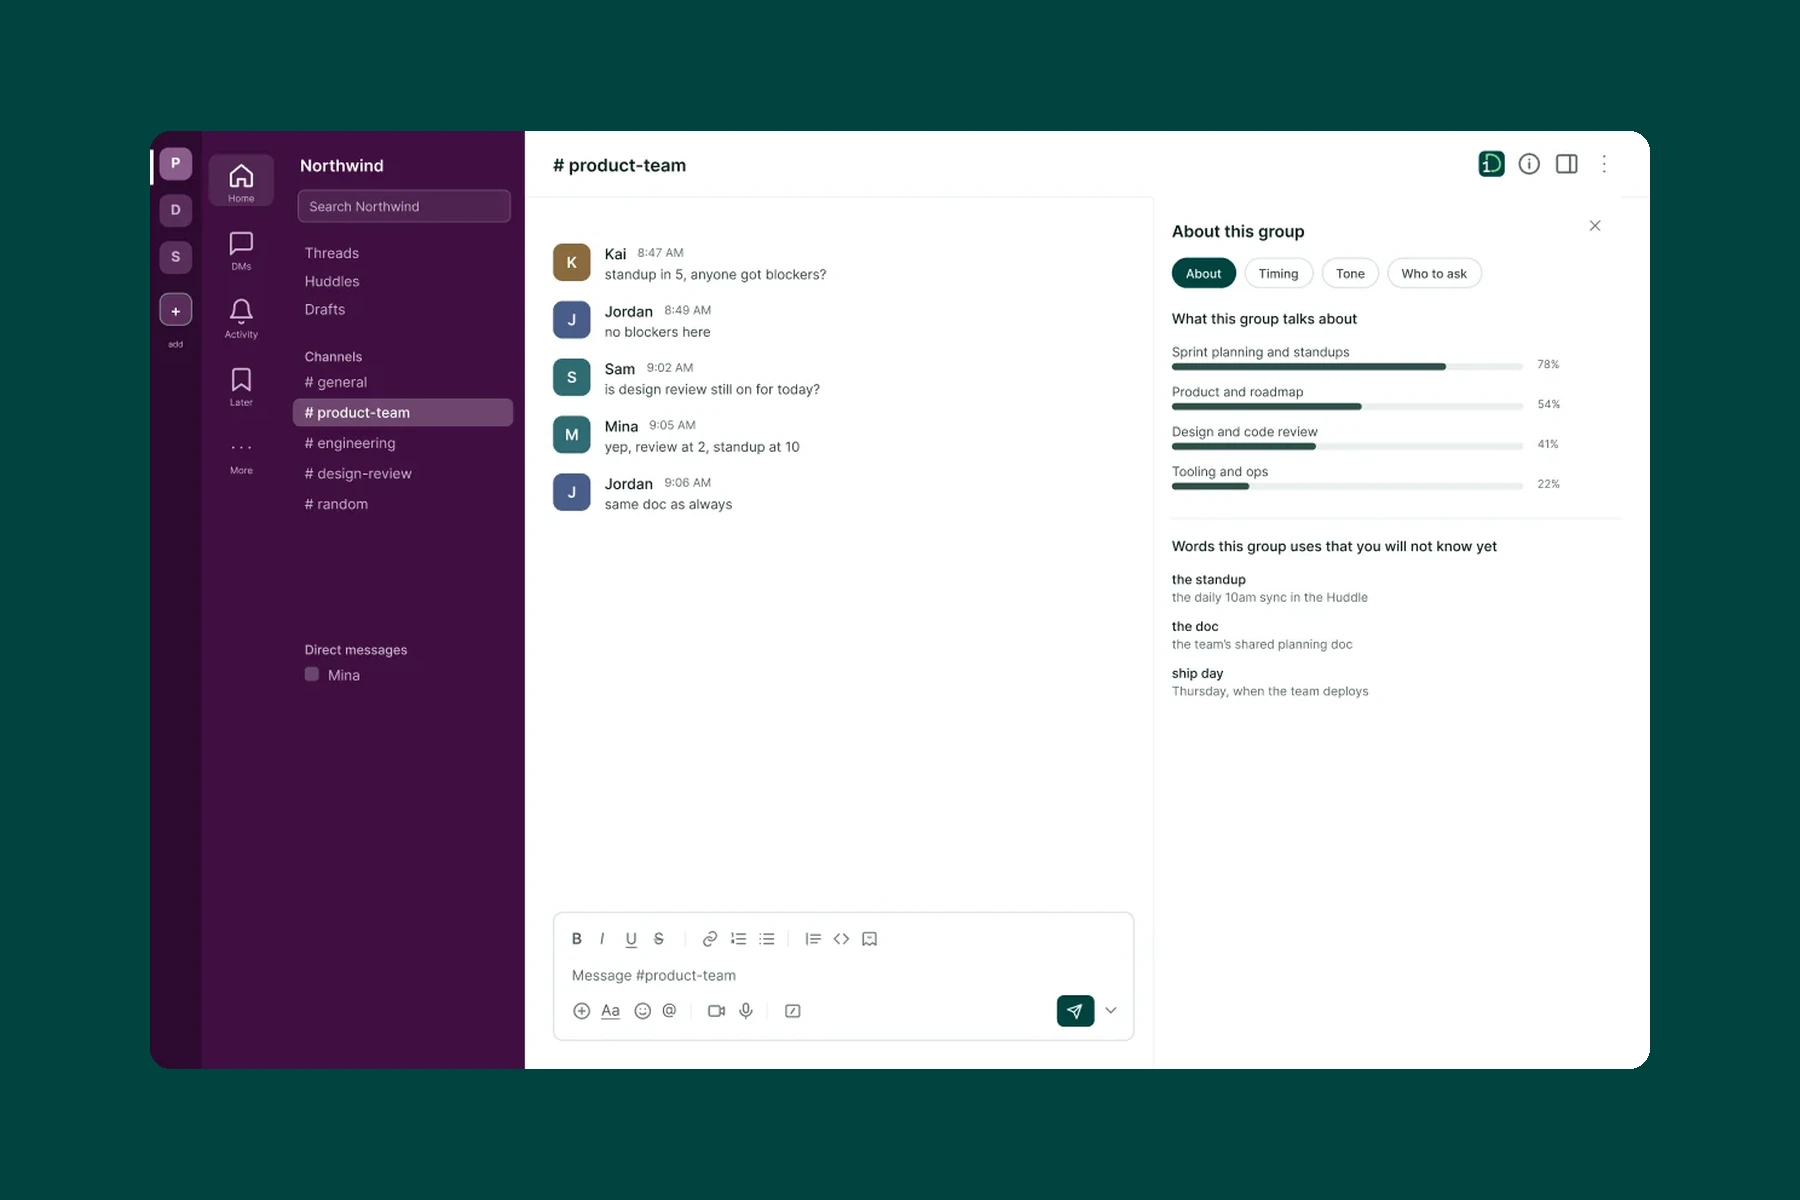
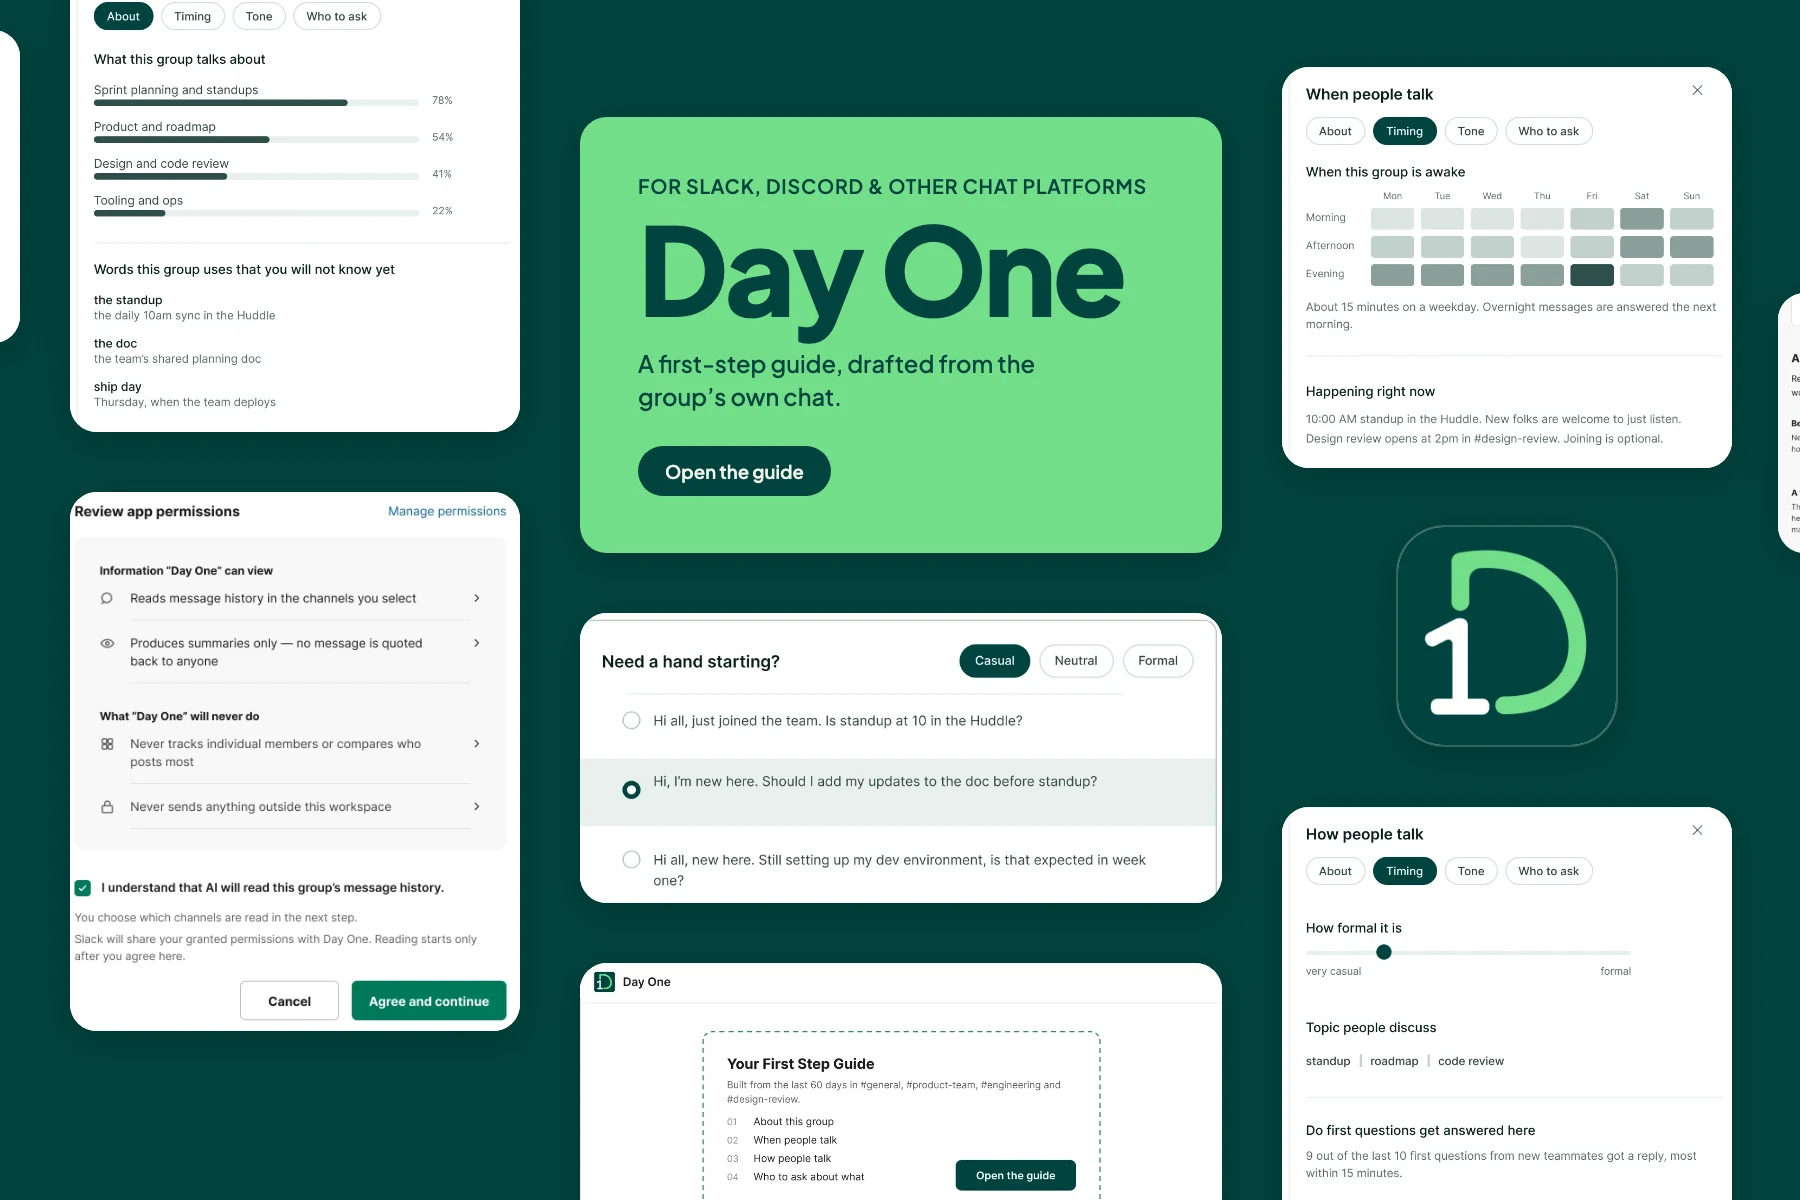
New Day One thumbnail; host flow first with rounded frames

diff --git a/dayone.html b/dayone.html
@@ -10,7 +10,7 @@
 <link href="https://fonts.googleapis.com/css2?family=Inter:ital,wght@0,400;0,500;0,600;1,400&family=Plus+Jakarta+Sans:wght@400;500;600;700;800&display=swap" rel="stylesheet">
 <link href="css/tokens.css?v=1" rel="stylesheet" type="text/css">
 <link href="css/reset.css" rel="stylesheet" type="text/css">
-<link href="css/dayone.css?v=34" rel="stylesheet" type="text/css">
+<link href="css/dayone.css?v=35" rel="stylesheet" type="text/css">
 <link href="https://fonts.googleapis.com/css2?family=Inter:wght@400;500;600&family=Oswald:wght@400;500;600&display=swap" rel="stylesheet">
 <link href="css/shell.css?v=3" rel="stylesheet" type="text/css">
 <link href="css/reveal.css?v=1" rel="stylesheet" type="text/css">
@@ -133,6 +133,23 @@
 <section class="do-sec do-sec--cream do-sec--flush">
   <p class="do-eyebrow"><b>02</b><span>THE EXPERIENCE</span></p>
   <div class="do-s32"></div>
+  <p class="do-flow-head"><i class="do-dot"></i>Host &middot; sets it up once</p>
+  <div class="do-s24"></div>
+  <div class="do-steps do-steps--baseline">
+    <figure class="do-step">
+      <img src="assets/images/dayone/hf-market.webp" width="2560" height="2040" alt="The Day One listing in Slack's App Directory">
+      <figcaption><b>01</b><span><strong>Install from the Marketplace</strong><em>Added to the workspace from Slack&rsquo;s App Directory.</em></span></figcaption>
+    </figure>
+    <figure class="do-step">
+      <img src="assets/images/dayone/hf-consent.webp" width="2560" height="1800" alt="A consent screen listing exactly what Day One reads">
+      <figcaption><b>02</b><span><strong>Grant access, transparently</strong><em>Spells out what Day One reads, and what it never does.</em></span></figcaption>
+    </figure>
+    <figure class="do-step">
+      <img src="assets/images/dayone/hf-setup.webp" width="2560" height="1600" alt="The host editing an AI-drafted welcome message">
+      <figcaption><b>03</b><span><strong>Edit the AI-drafted welcome</strong><em>Drafted from the group&rsquo;s history. The host tweaks and publishes.</em></span></figcaption>
+    </figure>
+  </div>
+  <div class="do-s56"></div>
   <p class="do-flow-head"><i class="do-dot"></i>Newcomer &middot; the first ten minutes</p>
   <div class="do-s24"></div>
   <div class="do-steps do-steps--top">
@@ -153,23 +170,6 @@
         <img src="assets/images/dayone/hf-starter.webp" width="2560" height="1600" alt="Editable message starters sitting directly above the Slack composer">
       </div>
       <figcaption><b>03</b><span><strong>Get help with the first message</strong><em>Editable starters in the group&rsquo;s tone. Nothing sends until they press send.</em></span></figcaption>
-    </figure>
-  </div>
-  <div class="do-s56"></div>
-  <p class="do-flow-head"><i class="do-dot"></i>Host &middot; sets it up once</p>
-  <div class="do-s24"></div>
-  <div class="do-steps do-steps--baseline">
-    <figure class="do-step">
-      <img src="assets/images/dayone/hf-market.webp" width="2560" height="2040" alt="The Day One listing in Slack's App Directory">
-      <figcaption><b>01</b><span><strong>Install from the Marketplace</strong><em>Added to the workspace from Slack&rsquo;s App Directory.</em></span></figcaption>
-    </figure>
-    <figure class="do-step">
-      <img src="assets/images/dayone/hf-consent.webp" width="2560" height="1800" alt="A consent screen listing exactly what Day One reads">
-      <figcaption><b>02</b><span><strong>Grant access, transparently</strong><em>Spells out what Day One reads, and what it never does.</em></span></figcaption>
-    </figure>
-    <figure class="do-step">
-      <img src="assets/images/dayone/hf-setup.webp" width="2560" height="1600" alt="The host editing an AI-drafted welcome message">
-      <figcaption><b>03</b><span><strong>Edit the AI-drafted welcome</strong><em>Drafted from the group&rsquo;s history. The host tweaks and publishes.</em></span></figcaption>
     </figure>
   </div>
 </section>

diff --git a/css/dayone.css b/css/dayone.css
@@ -990,6 +990,14 @@ body {
 /* The host row hangs from a shared baseline; the newcomer row sits on a
    shared top edge, exactly as the frame lays them out. */
 .do-steps--baseline { align-items: end; }
+
+/* Host screens are full browser frames of different heights, so they
+   are plain images rather than .do-screen crops; give them the same
+   corners and lift as the newcomer screens so both rows read as one set. */
+.do-steps--baseline .do-step img {
+    border-radius: calc(12 * var(--u));
+    box-shadow: 0 0 0 1px rgba(0, 53, 49, 0.08), 0 calc(10 * var(--u)) calc(28 * var(--u)) rgba(0, 30, 25, 0.12);
+}
 .do-steps--top { align-items: start; }
 
 .do-step { margin: 0; }

diff --git a/index.html b/index.html
@@ -47,7 +47,7 @@
     <main class="project_grid">
 
         <a class="card" href="dayone.html">
-            <span class="card_thumb"><img src="assets/images/dayone/thumb.webp?v=2" alt="Day One: the guide panel open beside a group chat"></span>
+            <span class="card_thumb"><img src="assets/images/dayone/thumb.webp?v=3" alt="Day One: plugin panels, first-message drafts and the app icon tiled on Day One green"></span>
             <span class="card_meta">
                 <span class="card_title">Day One</span>
                 <span class="card_summary">A private guide that helps newcomers read a group's unspoken rules and write their first message.</span>
